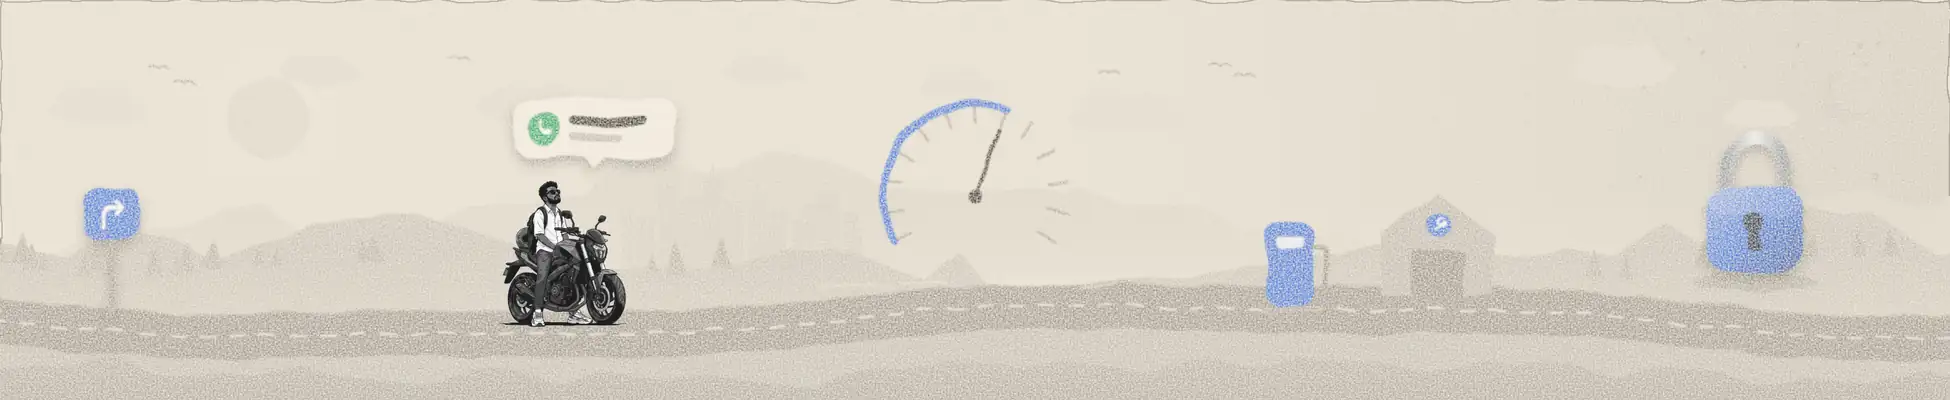
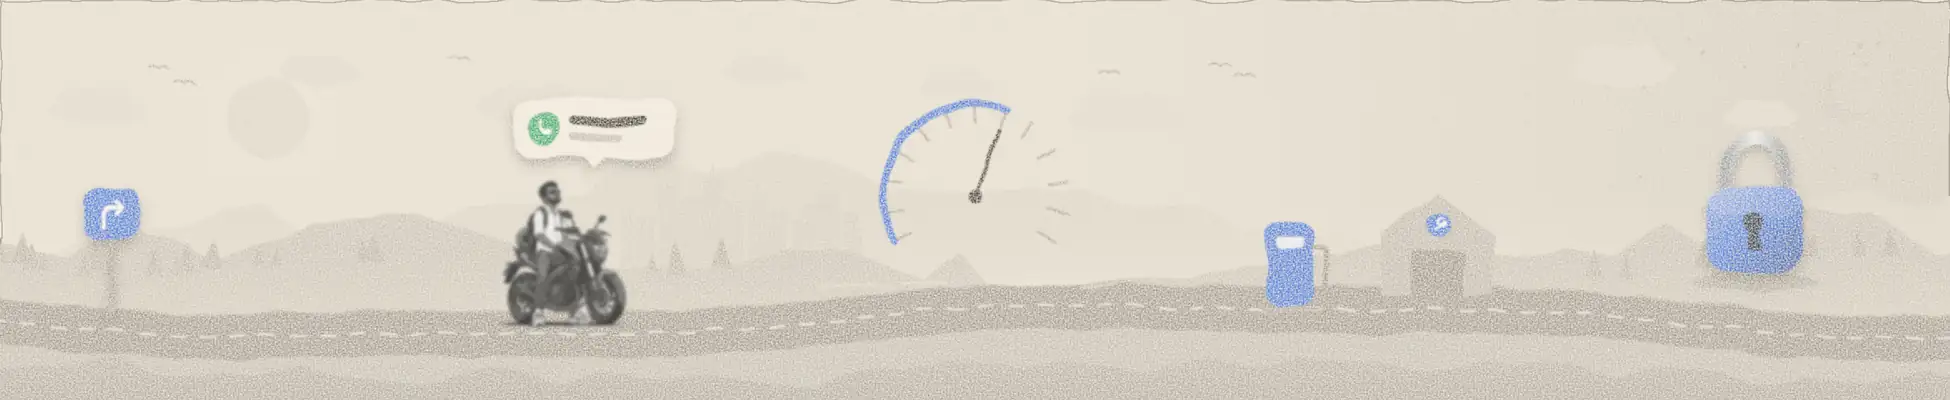
Sunglasses flare synced to the headlight; story rider softly blurred into the scene
Claude-Session: https://claude.ai/code/session_011svZSxEu7wpuhhs3qeC1tv

Changed region(s): [[0.2462, 0.45, 0.3385, 0.84]]

diff --git a/js/views.js b/js/views.js
@@ -1361,7 +1361,7 @@ export function onboarding(s, step = 0, link = {}) {
       : isIOS() ? `<button class="btn ink block" data-act="onb-finish" data-arg="ios">${icon('bt')} Pair on iPhone</button>` : '';
     return `<div class="onb onb-link">
       <div class="onb-top"><button class="circle" data-act="onb-step" data-arg="1" aria-label="Back">${icon('back')}</button><button class="link" data-act="onb-finish" data-arg="later">Skip</button></div>
-      <div class="onb-body"><div class="lk-hero" aria-hidden="true"><span class="lk-glow"></span><img class="lk-img" src="img/onb/rider-dominar.webp" alt="" decoding="async"><span class="lk-lamp"></span><span class="lk-glint"></span><svg class="lk-wave" viewBox="0 0 80 40"><path d="M2 38C12 30 10 18 22 16S36 26 46 18S58 4 78 4"/></svg><span class="link-badge lk-bt">${icon('bt')}</span></div><div class="eyebrow mt24">Step 2 of 2</div><h1 class="title">Link your bike</h1><p class="onb-p">Pair once with the ignition on. It reconnects by itself after that.</p>
+      <div class="onb-body"><div class="lk-hero" aria-hidden="true"><span class="lk-glow"></span><img class="lk-img" src="img/onb/rider-dominar.webp" alt="" decoding="async"><span class="lk-lamp"></span><span class="lk-flare"></span><svg class="lk-wave" viewBox="0 0 80 40"><path d="M2 38C12 30 10 18 22 16S36 26 46 18S58 4 78 4"/></svg><span class="link-badge lk-bt">${icon('bt')}</span></div><div class="eyebrow mt24">Step 2 of 2</div><h1 class="title">Link your bike</h1><p class="onb-p">Pair once with the ignition on. It reconnects by itself after that.</p>
       <div class="onb-gets2">${[['turnRight', 'Turns'], ['phone', 'Callers'], ['clock', 'Time'], ['fuel', 'Fuel']].map(([ic, t]) => `<span>${icon(ic)}${t}</span>`).join('')}</div></div>
       <div class="onb-foot">${pair}<button class="btn ${pair ? 'line' : 'ink'} block mt8" data-act="onb-finish" data-arg="sim">${icon('bolt')} Try the simulated bike</button><button class="link onb-sample" data-act="onb-finish" data-arg="later">I’ll do this later</button></div>
     </div>`;

diff --git a/styles.css b/styles.css
@@ -2211,3 +2211,10 @@ html[data-theme="obsidian"] .onb-link .onb-img, html[data-theme="amoled"] .onb-l
 .lk-bt { left: 104% !important; top: 4% !important; bottom: auto !important; width: 46px !important; height: 46px !important; margin: 0 0 0 -23px !important; animation: badgeIn .5s cubic-bezier(.3,1.4,.5,1) 1.5s both, lbPulse 2.4s ease-in-out 2s infinite !important; }
 .lk-bt svg { width: 22px !important; height: 22px !important; }
 @media (prefers-reduced-motion: reduce) { .lk-img, .lk-lamp, .lk-glint::after, .lk-wave path, .lk-bt { animation: none !important; opacity: 1; } .lk-lamp { opacity: .6; } }
+/* Sunglasses flare: fires when the headlight comes on, in the same rhythm */
+.lk-glint { display: none; }
+.lk-flare { position: absolute; left: 43.5%; top: 7.4%; width: 34px; height: 34px; margin: -17px 0 0 -17px; pointer-events: none; opacity: 0; mix-blend-mode: screen; animation: lkFlare 2.6s ease-in-out 2.2s infinite; }
+.lk-flare::before { content: ""; position: absolute; inset: 9px; border-radius: 50%; background: radial-gradient(closest-side, #fff, rgba(190,225,255,.6) 45%, transparent); }
+.lk-flare::after { content: ""; position: absolute; inset: 0; background: linear-gradient(90deg, transparent 0 40%, rgba(255,255,255,.9) 50%, transparent 60% 100%) center / 100% 2px no-repeat, linear-gradient(0deg, transparent 0 40%, rgba(255,255,255,.75) 50%, transparent 60% 100%) center / 2px 70% no-repeat; }
+@keyframes lkFlare { 0%, 10% { opacity: 0; transform: scale(.4) rotate(0); } 22% { opacity: 1; transform: scale(1) rotate(20deg); } 40% { opacity: .2; transform: scale(.7) rotate(35deg); } 100% { opacity: 0; transform: scale(.5) rotate(45deg); } }
+@media (prefers-reduced-motion: reduce) { .lk-flare { animation: none; opacity: 0; } }

diff --git a/sw.js b/sw.js
@@ -1,5 +1,5 @@
 // Waylink — offline shell. Caches the app's own files; fonts are cached as they load.
-const CACHE = 'waylink-v117';
+const CACHE = 'waylink-v118';
 const SHELL = ['./', 'index.html', 'styles.css', 'js/app.js', 'js/views.js', 'js/store.js', 'js/link.js', 'js/protocol.js', 'js/sound.js', 'js/icons-huge.js', 'img/onb/scene-light.webp', 'img/onb/scene-dark.webp', 'img/onb/link-light.webp', 'img/onb/link-dark.webp', 'img/grain.png', 'img/onb/rider-dominar.webp', 'img/onb/rider-mono.webp', 'img/rider.png', 'manifest.webmanifest', 'icon.svg', 'img/logos/wl-loop-rust.svg', 'img/logos/wl-turns-rust.svg', 'img/logos/png/wl-loop-rust-180.png', 'img/bikes/manifest.json', 'img/bikes/ns200-art.webp', ];
 // Cache each file on its own, so one missing file can't block an update.
 self.addEventListener('install', (e) => { e.waitUntil(caches.open(CACHE).then((c) => Promise.all(SHELL.map((u) => c.add(new Request(u, { cache: 'reload' })).catch(() => {})))).then(() => self.skipWaiting())); });
